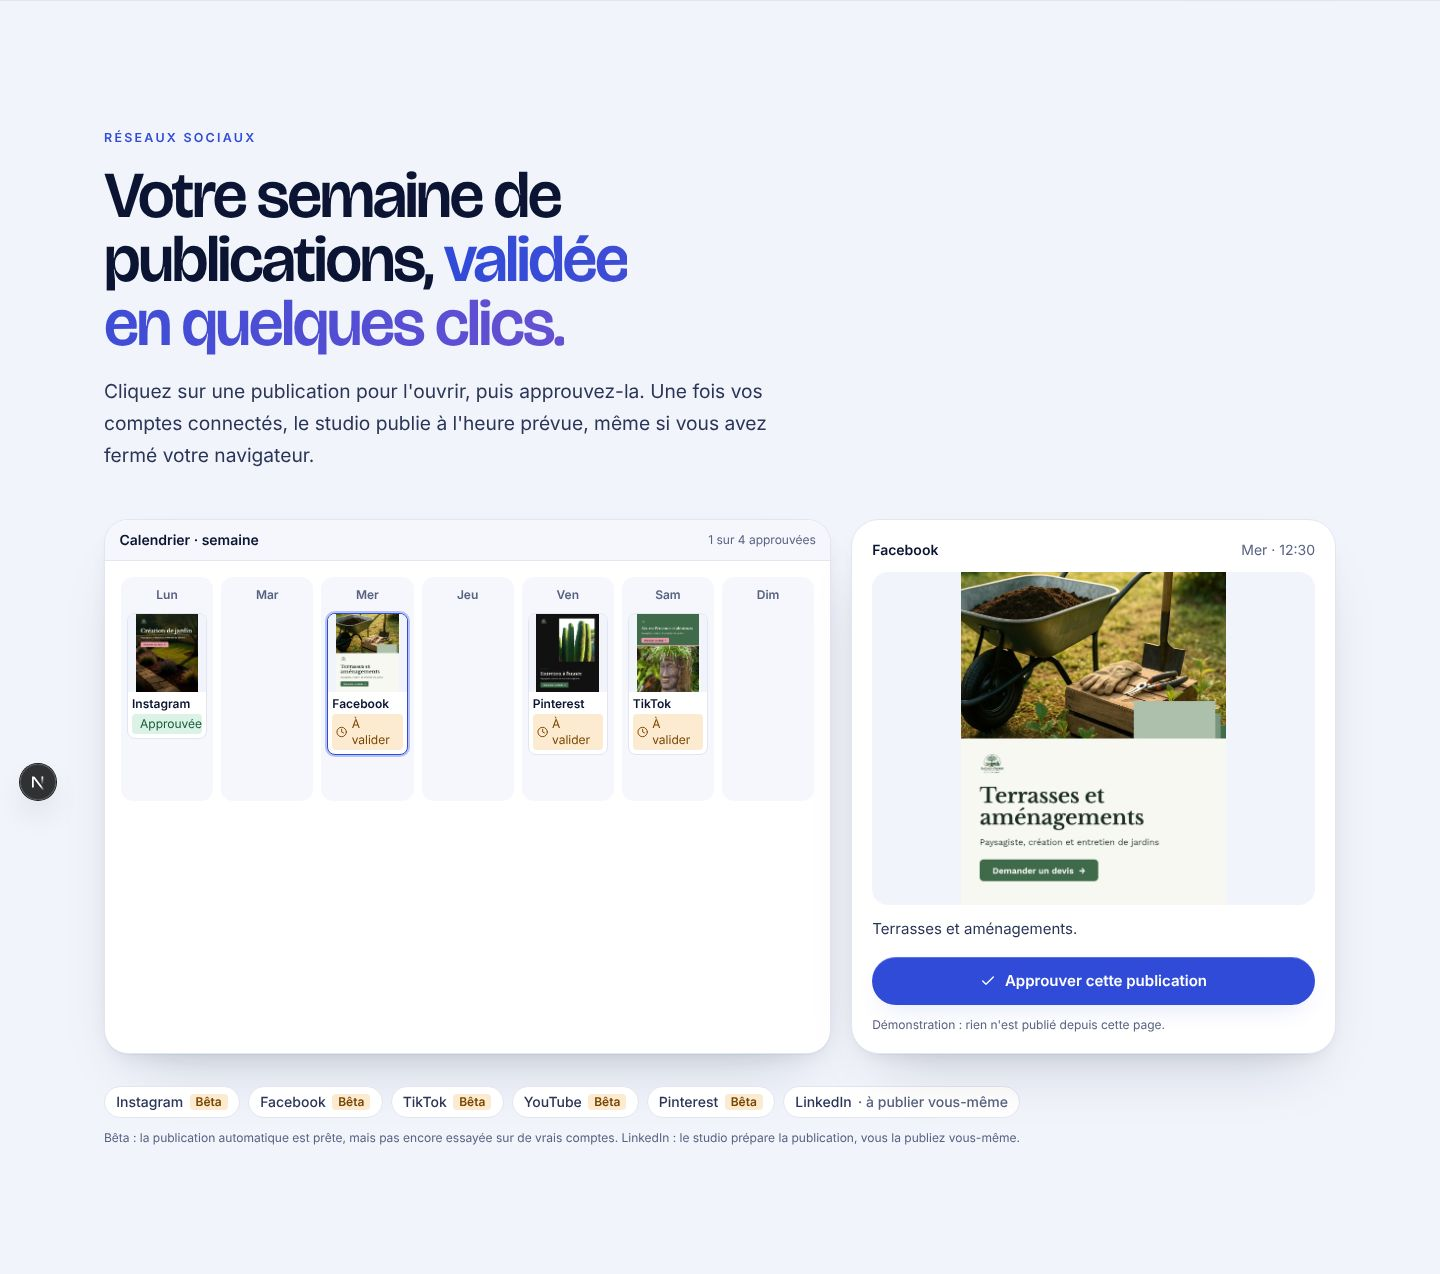
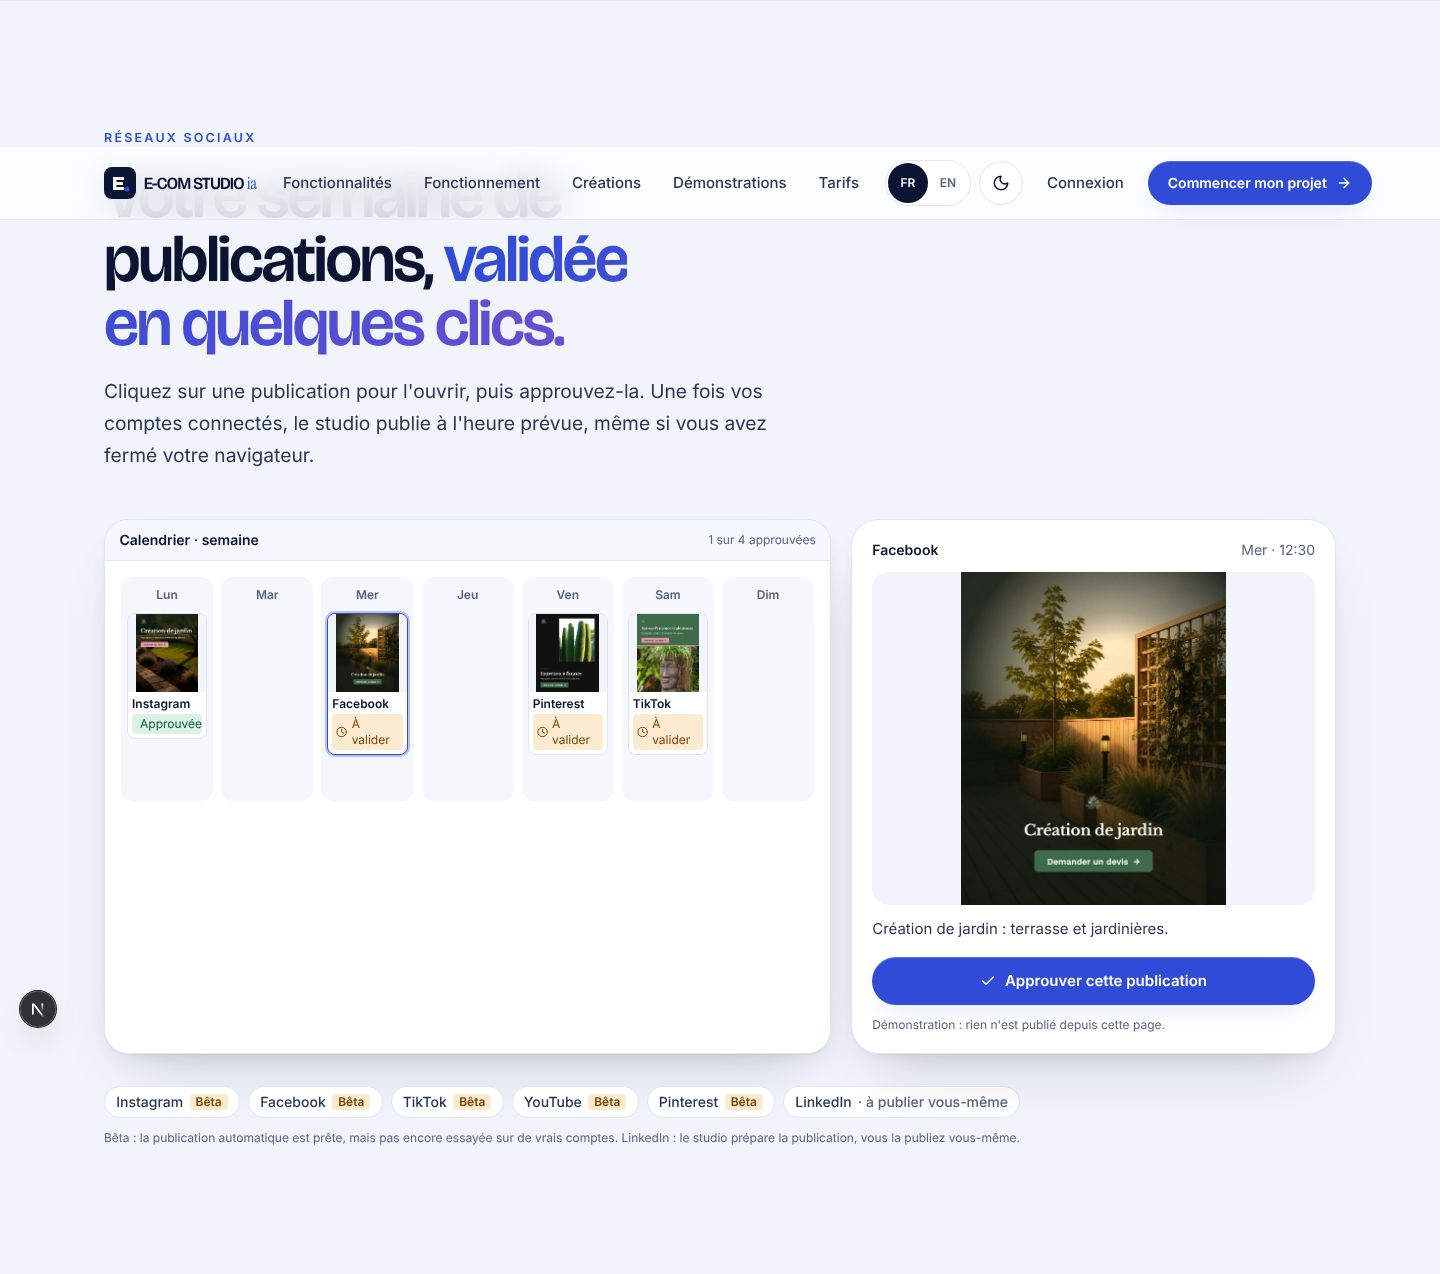
Accueil : calendrier Racines & Pierres sans la publication au bloc vert (post-7 remplacée par post-2)
Claude-Session: https://claude.ai/code/session_011f4dYgekg9Z8mXq2KwSSGK

diff --git a/src/components/home/demo-curation.ts b/src/components/home/demo-curation.ts
@@ -157,7 +157,8 @@ export const SECTION_DEMO = {
 /** Publications du calendrier « Votre semaine de publications » (Racines & Pierres) : visuels et textes de la démo. */
 export const CALENDAR_POSTS: { src: string; network: string; caption: [string, string] }[] = [
   { src: "/demo/paysagiste/post-3.jpg", network: "Instagram", caption: ["Création de jardin : demandez votre devis.", "Garden design: ask for your quote."] },
-  { src: "/demo/paysagiste/post-7.jpg", network: "Facebook", caption: ["Terrasses et aménagements.", "Terraces and landscaping."] },
+  // post-7 écartée : bloc vert clair posé sur la photo.
+  { src: "/demo/paysagiste/post-2.jpg", network: "Facebook", caption: ["Création de jardin : terrasse et jardinières.", "Garden design: terrace and planters."] },
   { src: "/demo/paysagiste/post-6.jpg", network: "Pinterest", caption: ["Entretien à l'année.", "Year-round maintenance."] },
   { src: "/demo/paysagiste/post-4.jpg", network: "TikTok", caption: ["Aix-en-Provence et alentours.", "Aix-en-Provence and surroundings."] },
 ];

diff --git a/tests/accueil-audit.test.ts b/tests/accueil-audit.test.ts
@@ -196,6 +196,7 @@ describe("Accueil : les sections tournent entre les démos, chacune avec de vrai
   it("calendrier « Votre semaine de publications » : quatre publications de Racines & Pierres avec leurs images", () => {
     expect(CALENDAR_POSTS).toHaveLength(4);
     for (const p of CALENDAR_POSTS) expect(exists(p.src)).toBe(true);
+    expect(CALENDAR_POSTS.map((p) => p.src)).not.toContain("/demo/paysagiste/post-7.jpg");
     expect(read("src/app/page.tsx")).toContain("CALENDAR_POSTS.slice(0, 4)");
   });
 });
